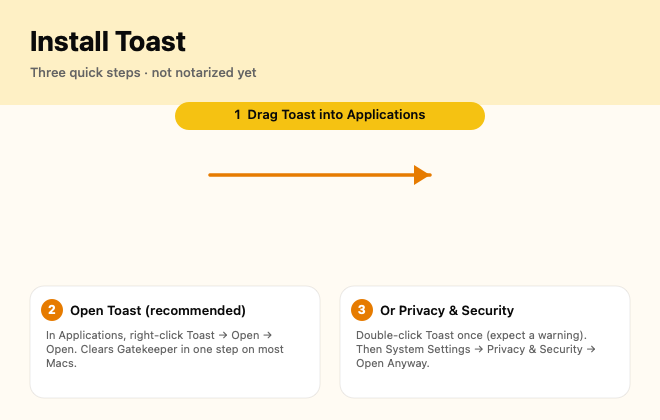
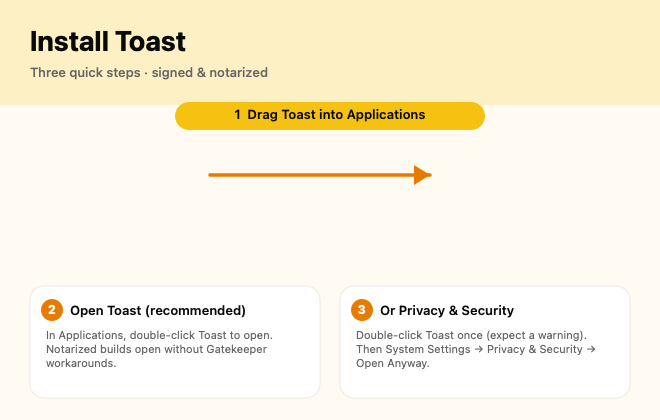
Add Developer ID signing and notarization for direct-download releases.
Ship signed and stapled DMG and Sparkle update archives from CI so users no longer need Gatekeeper workarounds on install.

Changed region(s): [[0.0606, 0.7738, 0.4242, 0.8976], [0.2121, 0.1548, 0.4242, 0.1857]]

diff --git a/web/public/index.html b/web/public/index.html
@@ -505,9 +505,9 @@ brew install --cask toast-app</code></pre>
                 <div class="install-header">
                     <h2 id="install-heading">Install in three steps</h2>
                     <p>
-                        Toast is not Apple-notarized yet, so macOS may warn on
-                        first launch. Follow these checkpoints — they are also
-                        printed on the DMG.
+                        Toast is Developer ID signed and Apple-notarized, so
+                        macOS should open it normally after you copy it to
+                        Applications.
                     </p>
                 </div>
                 <div class="checkpoints">
@@ -527,18 +527,14 @@ brew install --cask toast-app</code></pre>
                         <span class="checkpoint-number" aria-hidden="true"
                             >2</span
                         >
-                        <h3>Allow Toast to open</h3>
+                        <h3>Open Toast</h3>
                         <p>
-                            In Applications,
-                            <strong>right-click Toast → Open → Open</strong>.
-                            That clears Gatekeeper in one step on most Macs.
+                            In Applications, <strong>double-click Toast</strong>.
+                            Notarized builds open without Gatekeeper workarounds.
                         </p>
                         <p class="alt">
-                            Fallback: double-click once (expect a warning), then
-                            <strong
-                                >System Settings → Privacy &amp; Security →
-                                Open Anyway</strong
-                            >.
+                            Fallback on older downloads:
+                            <strong>right-click Toast → Open → Open</strong> once.
                         </p>
                     </article>
                     <article class="checkpoint">

diff --git a/web/public/terms/index.html b/web/public/terms/index.html
@@ -138,10 +138,9 @@
 
       <h2>macOS distribution</h2>
       <p>
-        Toast is distributed as an unsigned or unnotarized macOS application. On first launch you
-        may need to right-click the app and choose <strong>Open</strong>, or approve it via
-        <strong>System Settings → Privacy &amp; Security → Open Anyway</strong> after one blocked
-        open attempt. The installer DMG and
+        Toast is distributed as a Developer ID signed and Apple-notarized macOS application.
+        macOS should open it normally after installation. If you use an older download, you may
+        need to right-click the app and choose <strong>Open</strong> once. The installer DMG and
         <a href="/#install">toast.asit.space/#install</a> document these steps. You download and run
         the software at your own discretion and risk.
       </p>

diff --git a/Toast/scripts/generate-dmg-background.swift b/Toast/scripts/generate-dmg-background.swift
@@ -104,7 +104,7 @@ func render(width: Int, height: Int) -> NSBitmapImageRep {
         in: NSRect(x: px(30), y: CGFloat(height) - px(58), width: px(400), height: px(34))
     )
     drawText(
-        "Three quick steps · not notarized yet",
+        "Three quick steps · signed & notarized",
         font: font(13, .medium),
         color: muted,
         in: NSRect(x: px(30), y: CGFloat(height) - px(82), width: px(400), height: px(18))
@@ -177,7 +177,7 @@ func render(width: Int, height: Int) -> NSBitmapImageRep {
         in: NSRect(x: leftCard.minX + px(40), y: leftCard.maxY - px(34), width: px(230), height: px(18))
     )
     drawText(
-        "In Applications, right-click Toast → Open → Open. Clears Gatekeeper in one step on most Macs.",
+        "In Applications, double-click Toast to open. Notarized builds open without Gatekeeper workarounds.",
         font: font(11, .regular),
         color: muted,
         in: NSRect(x: leftCard.minX + px(16), y: leftCard.minY + px(14), width: cardW - px(32), height: px(56))

diff --git a/toast-tap/Casks/toast-app.rb b/toast-tap/Casks/toast-app.rb
@@ -15,8 +15,9 @@ cask "toast-app" do
   auto_updates true
 
   caveats <<~EOS
-    Toast is ad-hoc signed (not notarized). On first launch you may need to
-    right-click Toast in Applications → Open → Open.
+    Toast is Developer ID signed and notarized. Double-click to open after
+    copying to Applications. If macOS still warns on an older download,
+    right-click Toast in Applications → Open → Open once.
   EOS
 
   zap trash: [

diff --git a/README.md b/README.md
@@ -9,11 +9,8 @@ A macOS menu bar app that shows live Vercel deployment status for your watched p
 ## Install
 
 1. Download from [toast.asit.space/download](https://toast.asit.space/download) (redirects to the latest `.dmg`).
-2. Open the DMG and drag **Toast** into **Applications** (checkpoint 1 — also shown on the DMG background).
-3. **Allow first launch** (checkpoint 2 — Toast is not notarized yet):
-   - **Recommended:** in Applications, right-click **Toast** → **Open** → **Open**.
-   - **Fallback:** double-click once (expect the warning), then **System Settings → Privacy & Security → Open Anyway**.
-4. Complete onboarding with a **read-only, team-scoped** [Vercel personal access token](https://vercel.com/account/tokens), then pick projects to watch (checkpoint 3).
+2. Open the DMG and drag **Toast** into **Applications**.
+3. Double-click **Toast** in Applications and complete onboarding with a **read-only, team-scoped** [Vercel personal access token](https://vercel.com/account/tokens), then pick projects to watch.
 
 The DMG includes a **How to Open Toast.txt** guide with the same steps. Automatic updates are delivered via [Sparkle](https://sparkle-project.org/) after the first install.
 
@@ -112,7 +109,7 @@ Optional: set **`GITHUB_REPO`** (e.g. `owner/repo`) if the repo slug differs fro
 
 The [Release workflow](.github/workflows/release.yml) will:
 
-- Build and ad-hoc sign the app
+- Build, Developer ID sign, and notarize the app and DMG
 - Create a DMG for manual install and a zip for Sparkle updates
 - Sign the zip with Sparkle EdDSA
 - Create a GitHub Release with both assets
@@ -168,13 +165,51 @@ You can disable analytics at any time in **Settings → Privacy → Help improve
 - Keep `SPARKLE_PRIVATE_KEY` in GitHub Actions secrets only — delete the local export after setup (`Toast/scripts/setup-sparkle-keys.sh --purge-local`).
 - Enable branch protection on `main`: require PR reviews, block force pushes, and restrict who can push tags or run the Release workflow.
 
-### Code signing
+### Code signing & notarization
 
-This project currently uses **ad-hoc signing** without notarization. Users may see Gatekeeper warnings on first install and occasionally after updates.
+Releases are **Developer ID signed** and **Apple-notarized** so macOS opens Toast without Gatekeeper workarounds.
 
-`com.apple.security.cs.disable-library-validation` is required so the ad-hoc-signed app can load the embedded Sparkle.framework (signed by a different identity). Remove it only when the app and all embedded frameworks share the same Developer ID signature.
+#### One-time Apple setup
 
-When you join the Apple Developer Program, switch to Developer ID signing + notarization for stronger install/update trust.
+1. In [Certificates, Identifiers & Profiles](https://developer.apple.com/account/resources/certificates/list), create a **Developer ID Application** certificate.
+2. Export it from Keychain Access as a `.p12` file (remember the export password).
+3. In [App Store Connect → Users and Access → Integrations → App Store Connect API](https://appstoreconnect.apple.com/access/integrations/api), create an API key with **Developer** access. Download the `.p8` file.
+
+#### GitHub Actions secrets
+
+Add these in **Settings → Secrets and variables → Actions**:
+
+| Secret | Value |
+|--------|--------|
+| `APPLE_CERTIFICATE_P12` | Base64-encoded `.p12` (`base64 -i cert.p12 \| pbcopy`) |
+| `APPLE_CERTIFICATE_PASSWORD` | Password used when exporting the `.p12` |
+| `APPLE_API_KEY_ID` | App Store Connect API key ID |
+| `APPLE_API_ISSUER_ID` | App Store Connect issuer ID |
+| `APPLE_API_KEY` | Full contents of the `.p8` API key file |
+
+Optional fallback (if you prefer app-specific password instead of API key):
+
+| Secret | Value |
+|--------|--------|
+| `APPLE_ID` | Apple ID email |
+| `APPLE_NOTARIZATION_PASSWORD` | App-specific password |
+| `APPLE_TEAM_ID` | 10-character team ID |
+
+Optional: `APPLE_SIGN_IDENTITY` — only needed if auto-detection fails (e.g. `Developer ID Application: Your Name (TEAMID)`).
+
+#### Local signed build
+
+```bash
+cd Toast
+export SIGN_IDENTITY="Developer ID Application: Your Name (TEAMID)"
+export NOTARIZE=1
+export APPLE_API_KEY_PATH="$HOME/path/AuthKey_XXXXXX.p8"
+export APPLE_API_KEY_ID="..."
+export APPLE_API_ISSUER_ID="..."
+./build.sh
+```
+
+Without `SIGN_IDENTITY`, `./build.sh` still produces an ad-hoc build for local development (uses `Toast.adhoc.entitlements` so Sparkle can load).
 
 CI builds are **arm64** (Apple Silicon). macOS 14+ is required.
 